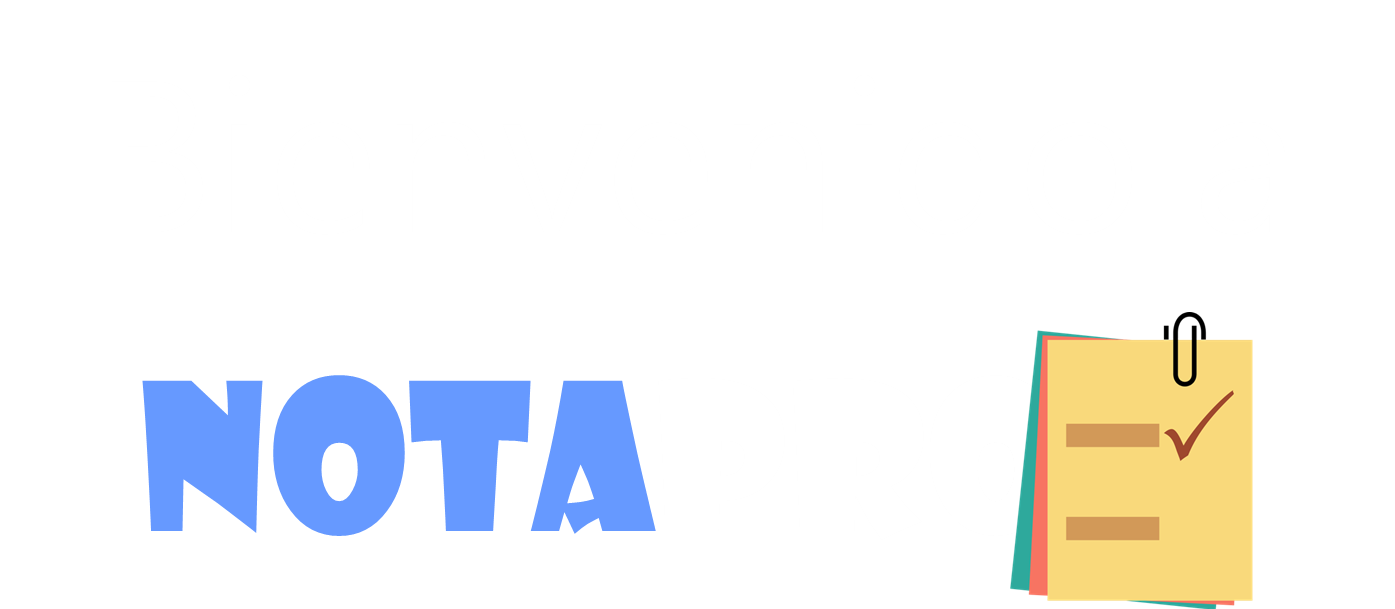
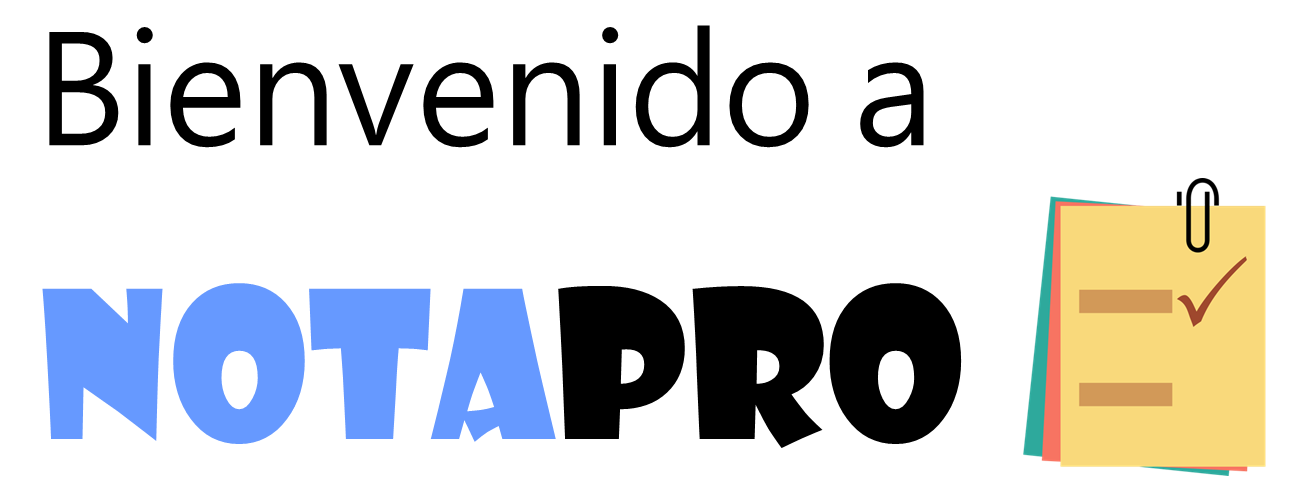
cambiando pagina principal

Changed region(s): [[0.0309, 0.3681, 0.9877, 1.0], [0.0309, 0.0307, 0.7099, 0.3067], [0.463, 0.0613, 0.4938, 0.092]]

diff --git a/public/assets/materialize/css/index.css b/public/assets/materialize/css/index.css
@@ -159,14 +159,24 @@ nav .input-field label.active {
 #tarjetas {
   margin-top: 3%; }
 
-#boton1 {
+/*
+#boton1{
   margin-left: 300px;
-  margin-top: 200px; }
+  margin-top: 200px;
+}
 
-#boton2 {
-  margin-left: 300px; }
-
+#boton2{
+  margin-left: 300px;
+}*/
 #principio {
-  height: 400px; }
+  margin: 0px;
+  padding: 0px; }
+  #principio img {
+    width: 90%;
+    height: 90%; }
+
+footer {
+  margin: 0px;
+  padding: 0px; }
 
 /*# sourceMappingURL=index.css.map */

diff --git a/public/assets/materialize/css/index.scss b/public/assets/materialize/css/index.scss
@@ -208,7 +208,7 @@ nav .input-field label.active {
 #tarjetas{
     margin-top: 3%;
 }
-
+/*
 #boton1{
   margin-left: 300px;
   margin-top: 200px;
@@ -216,9 +216,21 @@ nav .input-field label.active {
 
 #boton2{
   margin-left: 300px;
-}
+}*/
 
 
 #principio{
-  height: 400px;
+  margin: 0px;
+  padding: 0px;
+  img{
+    width: 90%;
+    height: 90%;
+    
+  }
+}
+
+
+footer{
+  margin: 0px;
+  padding: 0px;
 }
